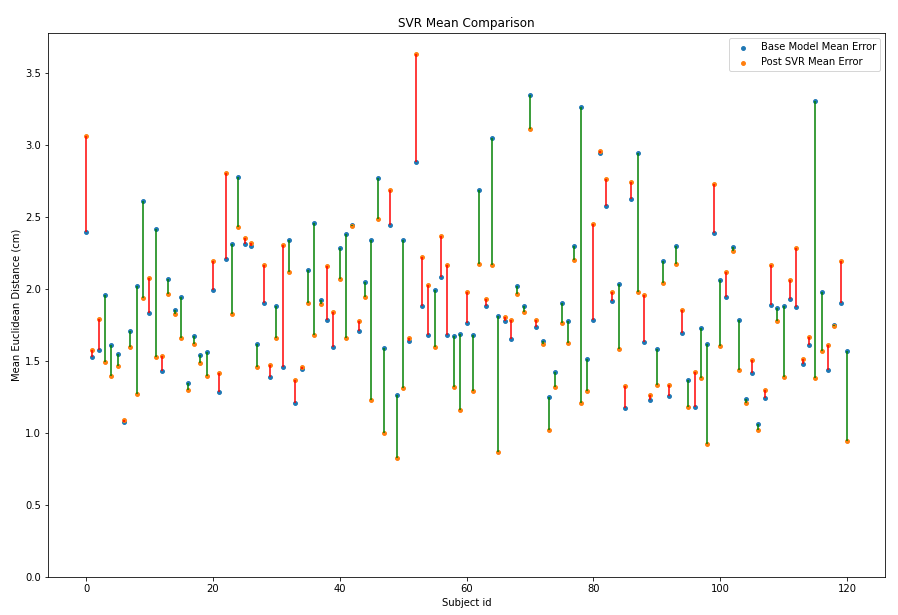
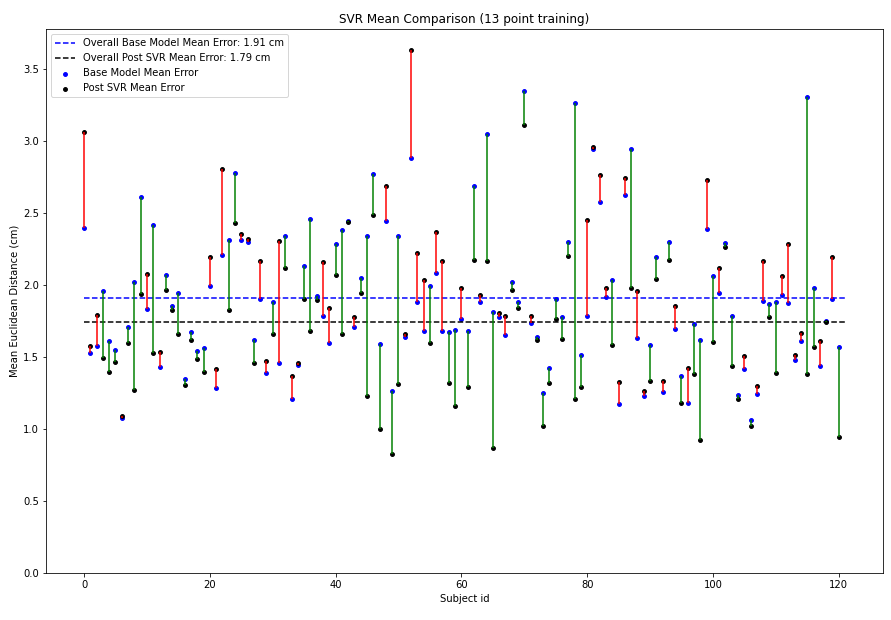
Update website

diff --git a/docs/index.md b/docs/index.md
@@ -12,12 +12,22 @@ Please use this index to quickly jump to the portions that interest you most.
     + [Only Phone Only Portrait](#only-phone-only-portrait)
     + [Only Phones All Orientations](#only-phones-all-orientations)
   * [Google Split](#google-split)
-  * [Test Split SVR 13 Point Calibration](#test-split-svr-13-point-calibration)
-  * [Test Split Google](#test-split-google)
+  * [Test Set](#test-set)
+    + [13 Point Calibration Split for SVR Training](#13-point-calibration-split-for-svr-training)
+  * [70/30 Split for SVR Training](#70-30-split-for-svr-training)
 - [The Network](#the-network)
 - [Training](#training)
 - [Results](#results)
+  * [Base Model Results](#base-model-results)
+  * [SVR Personalization](#svr-personalization)
+    + [13 Point Calibration Split](#13-point-calibration-split)
+    + [Google 70/30 Train Test Split](#google-70-30-train-test-split)
+  * [SVR Outputs](#svr-outputs)
 - [Experiments](#experiments)
+  * [Network Architecture](#network-architecture)
+  * [Dataset](#dataset)
+  * [Training](#training-1)
+  * [Results](#results-1)
 - [References](#references)
 - [Acknowledgements](#acknowledgements)
 
@@ -117,9 +127,27 @@ Results are reported on the entire test set and also on a subset of the entire t
 The paper claims that per person personalization greatly improves the performance of the system. This personalization is done using a simple SVR. To train the SVR, we split the test set into training and testing sets. 
 
 #### 13 Point Calibration Split for SVR Training
-In the first split, we choose the 13 point calibration data as the training set for the SVR and the rest of the 17 ground truth points serve as the test set. 
+In the first split, we choose the 13 point calibration data as the training set for the SVR and the rest of the 17 ground truth points serve as the test set. All frames related to each of the ground truth points are segregated into their respective sets to ensure no data leakage. 
+
+The image below shows an example of this split. 
+<img src="imgs/SVR13Example.png"/>
+
+Details of this test set:
+* Total number of files: 55,541
+* Total number of participants: 121
+* Total number of train files: 21,867
+* Total number of test: 33,674
 
 ### 70/30 Split for SVR Training
+
+<img src="imgs/GoogleTestExample.png"/>
+
+Details of this test set:
+* Total number of files: 55,541
+* Total number of participants: 121
+* Total number of train files: 38,892
+* Total number of test: 16,649
+
 ***
 
 ## The Network
@@ -219,12 +247,52 @@ These results are slightly worse than Google's reported errors since we have les
 ### SVR Personalization
 We take the output of the penultimate ReLU layer from the base model and train a per person SVR to provide a personalized result. The SVR leads in a reduction in the overall mean error but there are a few cases where the SVR hurts performance.
 
+The results are summarized in the table below. 
+<table>
+<thead>
+  <tr>
+    <th>Dataset</th>
+    <th>Number of Test Files</th>
+    <th>Base Model Mean Error (cm)</th>
+    <th>Mean Error After SVR(cm)</th>
+    <th>Improvement (cm)</th>
+  </tr>
+</thead>
+<tbody>
+  <tr>
+    <td>SVR 13 Point Calibration</td>
+    <td>33,674</td>
+    <td>1.91</td>
+    <td>1.79</td>
+    <td>0.12</td>
+  </tr>
+  <tr>
+    <td>SVR 70/30 Point Split</td>
+    <td>16,649</td>
+    <td>2.03</td>
+    <td>1.87</td>
+    <td>0.16</td>
+  </tr>
+</tbody>
+</table>
+
+Since the 13 point calibration set uses the ground truth points that are at the edges of the screen for training, the test set contains more points that tend to the centre of the screen. Hence the base model error on the SVR 13 point calibration dataset is considerably lower than the 70/30 split set. 
+
+But since the SVR is trained on more data in the 70/30 split dataset, we see the delta between pre SVR and post SVR error is larger which shows better personalization. 
+
 #### 13 Point Calibration Split
+The SVR reduces the mean overall error from 1.9187cm to 1.8124cm. This is a good result considering there are few cases where the SVR actually harms performance. 
 
 <img src="imgs/SVRComparison.png"/>
 
 #### Google 70/30 Train Test Split
+The SVR reduces the mean overall error from 1.9187cm to 
 <img src="imgs/SVRComparisonGoogle.png"/>
+
+### SVR Outputs
+<h4>Examples where SVR helps</h4>
+
+<h4>Examples where SVR hurts</h4>
 
 ***
 
@@ -258,9 +326,41 @@ Details of the dataset:
 We again use PyTorch Lightning. The percentage of dropout during training is increased throughout the architecture. Different schedulers and optimizers were tried and the best performing model was obtained using the Adam Optimizer and a ReduceLRonPlateau scheduler. 
 
 ### Results
-While the error in centimeters is very low, it looks like the network has learned a "cheat" solution.  
+The error of 2.01cm is even lower than GazeCapture's error when they do not use any augmentation! This goes to show the power of this architecture. This architecture has ~150K parameters while the GazeCapture dataset has ~7M parameters. 
 
-The error reported here is even lower than GazeCapture's error when they do not use any augmentation. This goes to show the power of this architecture. This architecture has ~150K parameters while the GazeCapture dataset has ~7M parameters. 
+While the error in centimetres is very low, it looks like the network has learned a "cheat" solution.
+
+The image below shows all the possible ground truth locations (the '+') sign and all the predictions made by the network (the blue dots). All predictions are made in the unified prediction space with the camera (star) at (0,0). 
+
+<img src="imgs/GTFull.png"/>
+
+The three orientations - portrait, landscape with camera on right and landscape of camera on right - are all encompassed in this single image. While we see the distribution of the portrait orientation predictions are close to the actual ground truths, both the landscape predictions seem to "learn" boundaries that don't actually exist. 
+
+The table below lists the mean errors per orientation. 
+<table>
+<thead>
+  <tr>
+    <th>Orientation</th>
+    <th>Mean Error(cm)</th>
+  </tr>
+</thead>
+<tbody>
+  <tr>
+    <td>Portrait orientation</td>
+    <td>2.0337548</td>
+  </tr>
+  <tr>
+    <td>Landscape, with home button on the right</td>
+    <td>2.0637705</td>
+  </tr>
+  <tr>
+    <td>Landscape, with home button on the left</td>
+    <td>1.9330263</td>
+  </tr>
+</tbody>
+</table>
+
+This remains an open problem and could lead to interesting insights on how the network learns. 
 
 ***
 
